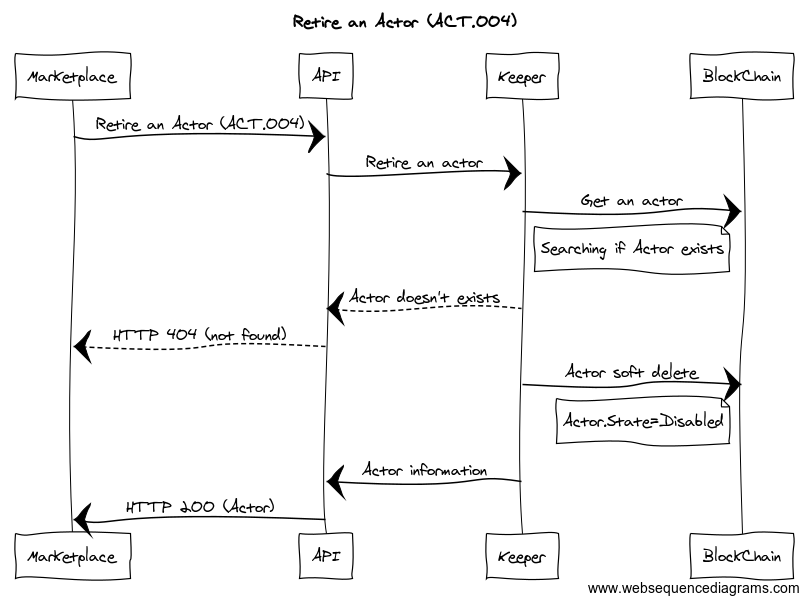
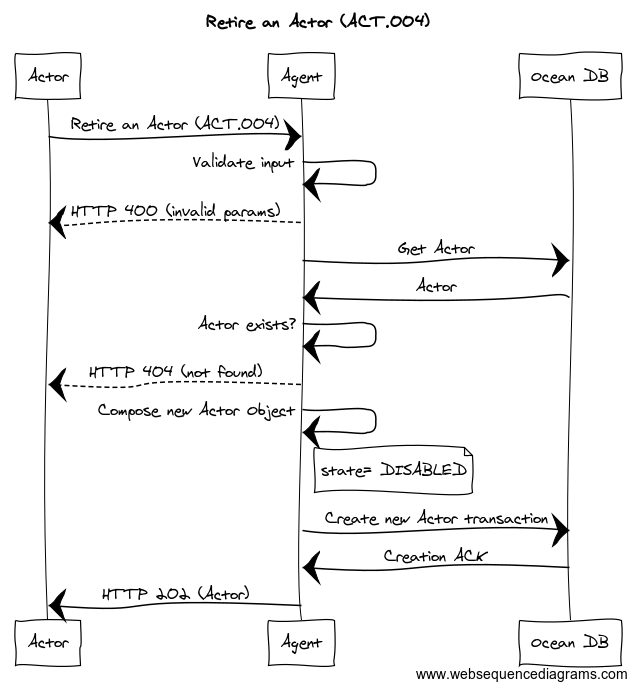
update and retire methods updated

Changed region(s): [[0.0, 0.0, 0.9858, 1.0], [0.0896, 0.4179, 0.1195, 0.4478], [0.0597, 0.3881, 0.0896, 0.4179]]

diff --git a/13/README.md b/13/README.md
@@ -7,7 +7,27 @@ editor: Aitor Argomaniz <aitor@oceanprotocol.com>
 contributors: Dimitri De Jonghe <dimi@oceanprotocol.com>
 ```
 
-# Ocean Actors Registry
+<!--ts-->
+
+Table of Contents
+=================
+
+   * [Ocean Actors Registry](#ocean-actors-registry)
+      * [Change Process](#change-process)
+      * [Language](#language)
+      * [Motivation](#motivation)
+      * [Specification](#specification)
+         * [Proposed Solution](#proposed-solution)
+         * [Registering a new Actor](#registering-a-new-actor)
+         * [Retrieve information of an existing actor](#retrieve-actor)
+         * [Updating Actor metadata](#updating-actor-metadata)
+         * [Retire an Actor](#retire-an-actor)
+      * [TODO: Events](#events)
+      * [Copyright Waiver](#copyright-waiver)
+      
+<!--te-->
+
+# Ocean Actors Registry <a name="ocean-actors-registry"></a>
 
 The Ocean Actors Registry (**REG**) is a specification for Ocean Protocol to register to all the actors interacting in the Ocean Network.
 
@@ -17,14 +37,14 @@ This specification is based on [Ocean Protocol technical whitepaper](https://git
 
 This specification is called **REG** henceforth.
 
-## Change Process
+## Change Process <a name="change-process"></a>
 This document is governed by the [2/COSS](../2/README.md) (COSS).
 
-## Language
+## Language <a name="language"></a>
 The key words "MUST", "MUST NOT", "REQUIRED", "SHALL", "SHALL NOT", "SHOULD", "SHOULD NOT", "RECOMMENDED", "NOT RECOMMENDED", "MAY", and "OPTIONAL" in this document are to be interpreted as described in [BCP 14](https://tools.ietf.org/html/bcp14) \[[RFC2119](https://tools.ietf.org/html/rfc2119)\] \[[RFC8174](https://tools.ietf.org/html/rfc8174)\] when, and only when, they appear in all capitals, as shown here.
 
 
-## Motivation
+## Motivation <a name="motivation"></a>
 
 Ocean network aims to power marketplaces for relevant AI-related data services.
 Different actors and stakeholders are necessary to interact between them using the Ocean Protocol defined.  
@@ -55,7 +75,7 @@ Verifiers provide assets and service verifications, getting tokens on reward. Ve
 Marketplaces expose all the information about the datasets, reputation, pricing, etc. They work as the  interface where the consumers can search for datasets suitable for their requirements. Marketplaces include the information provided by the curators.
 
 
-## Specification
+## Specification <a name="specification"></a>
 
 The **Actors** information should be managed using an API. This API should exposes the following capabilities:
 
@@ -69,7 +89,7 @@ The information or Metadata about the Actors MUST be stored in Ocean DB.
 AGENT MUST NOT store any information about the accounts (public keys, private keys, passwords or recovery phrases).
 
 
-### Proposed Solution
+### Proposed Solution <a name="proposed-solution"></a>
 
 The proposed solution is composed by the interaction of different elements:
 
@@ -95,7 +115,7 @@ The above diagram shows the high level interactions between the components invol
 
 In the following sections you can find the end to end implementation details of the complete REG functionality.
 
-### Registering a new Actor
+### Registering a new Actor <a name="registering-a-new-actor"></a>
 
 ![Registering a new Actor](images/ACT.001.png "ACT.001")
 
@@ -195,7 +215,7 @@ Using the information stored/provided by **Ocean DB**, the **AGENT** SHOULD comp
 |attributes |array |Array of key, value attributes|
 
 
-### Retrieve information of an existing actor
+### Retrieve information of an existing actor <a name="retrieve-actor"></a>
 
 ![Retrieve info of an Actor](images/ACT.002.png "ACT.002")
 
@@ -207,6 +227,7 @@ The retrieval of the Actor information relates with the AGENT and Ocean DB. No i
 It is necessary to expose a RESTful HTTP interface using the following details:
 
 ```
+Reference: ACT.002
 Path:  /api/v1/keeper/actors/actor/{actorId}
 HTTP Verb: GET
 Caller: Any
@@ -234,7 +255,8 @@ GET http://localhost:8080/api/v1/keeper/actors/actor/0x8f0227d45853a50eefd48dd4f
 ```json
 {
     "actorId": "0x8f0227d45853a50eefd48dd4fec25d5b3fd2295e",
-	"name": "John Doe"
+	"name": "John Doe",
+	"state": "CREATED",
 	"attributes": [{
 		"key": "interests",
 		"value": "Looking Ahead"
@@ -257,80 +279,152 @@ Ocean DB stores all the information about the Actors metadata. Using the actorId
 If the Actor metadata has the state attribute `state == DISABLED` the method should return a **HTTP 404** Not Found message.
 
 
----
+### Updating Actor metadata <a name="updating-actor-metadata"></a>
 
-**Still pending to Review**
+![Update an Actor](images/ACT.003.png "ACT.003")
 
----
----
----
----
----
----
----
----
+In the above diagram the Agent and the Account Manager capabilities are implemented in the AGENT scope.
+No information is going through the Decentralized VM.
+The updating of an existing Actor metadata involves the following implementations:
 
-
-
-### Update an Actor (ACT.003)
-
-```
-Path: /api/v1/keeper/actors/actor
-HTTP Verb: PUT
-Caller: Actor or Marketplace working as Proxy
-Input: Actor Schema
-Output: Actor Schema
-HTTP Output Status Codes: 
-    HTTP 200 - Updated
-    HTTP 404 - Not Found
-```
-
-![ACT.003](images/ACT.003.png "ACT.003")
-
-Method updating the Actor information. This method doesn’t allow to modify all the Actor information attributes. Information like public & private keys, wallet and so on can’t be modified. Only the information about the following fields can be updated:
+This method doesn’t allow to modify all the Actor information attributes. Only the information about the following fields can be updated:
 
 * Name
 * Attributes
 
-This method is integrated by the **Actor**. Marketplaces can participate as proxies. 
-The Input and Output parameters are defined in the [Actor Schema](https://github.com/oceanprotocol/pk-schemas/blob/develop/src/main/resources/avro/com/oceanprotocol/core/keeper/schemas/Actor.avsc).
 
+#### Ocean Agent API
 
-### Retire an Actor (ACT.004)
+It is necessary to expose a RESTful HTTP interface using the following details:
 
 ```
+Reference: ACT.003
+Path: /api/v1/keeper/actors/actor
+HTTP Verb: PUT
+Caller: Actor
+Input: Actor Schema
+Output: Actor Schema
+HTTP Output Status Codes: 
+    HTTP 202 - Accepted
+    HTTP 400 - Invalid params
+    HTTP 404 - Not Found
+```
+
+##### Input Parameters
+
+| Parameter | Type | Description |
+|:----------|:-----|:------------|
+|actorId    |string|Account address|
+|name       |string|Actor nickname (optional)|
+|attributes |array |Array of key, value attributes (optional)|
+
+Example: 
+
+```json
+{
+    "actorId": "0x8f0227d45853a50eefd48dd4fec25d5b3fd2295e",
+	"name": "Alice",	
+	"attributes": [{
+		"key": "interests",
+		"value": "no interests"
+	}]
+}
+```
+
+#### Accounts Management
+
+The Accounts Manager components it's not involved in this method. All the information will be retrieved from **Ocean DB**.
+
+#### Interaction with Ocean DB
+
+Ocean DB will store the metadata information about the actor. Only the metadata included in the following attributes will be modified:
+
+* Name
+* Attributes
+
+To implement that it's necessary to retrieve the actor from the database, and update the Name and Attributes information in the document retrieved, the new model created will be sent as a new transaction to the database. 
+After creating the Actor in the Database, it will return a HTTP 202 Accepted message. It means the request has been accepted for processing, but the processing has not been completed.
+
+
+#### Output
+Using the information stored/provided by **Ocean DB**, the **AGENT** SHOULD compose the output payload to return. It should include same information detailed in the previous sections.
+
+
+
+### Retire an Actor <a name="retire-an-actor"></a>
+
+![Retire an Actor](images/ACT.004.png "ACT.004")
+
+In the above diagram the Agent and the Account Manager capabilities are implemented in the AGENT scope.
+No information is going through the Decentralized VM.
+
+This method implements a soft delete of an Actor. It means the Actor is updated setting the state attribute to `DISABLED`. The method will return a HTTP 200 status code and the Actor modified in the response body.
+
+This method only can be integrated by the Actor. The Input of this method is the actorId referencing to a unique Actor. 
+
+#### Ocean Agent API
+
+It is necessary to expose a RESTful HTTP interface using the following details:
+
+```
+Reference: ACT.004
 Path: /api/v1/keeper/actors/actor/{actorId}
 HTTP Verb: DELETE
 Caller: Actor
 Input: actorId
 Output: Actor Schema
 HTTP Output Status Codes: 
-    HTTP 200 - OK
+    HTTP 202 - Accepted
+    HTTP 400 - Invalid params
     HTTP 404 - Not Found
 ```
 
-![ASE.004](images/ASE.004.png "ASE.004")
+##### Input Parameters
 
-This method implements a soft delete of an actor. It means the Actor is updated setting the state attribute to `“DISABLED”`. 
-The method will return a HTTP 200 status code and the Actor modified in the response body.
-
-This method only can be integrated by the Actor. 
-The Input of this method is the actorId referencing to a unique Actor. The Output parameters are defined in 
-the [Actor Schema](https://github.com/oceanprotocol/pk-schemas/blob/develop/src/main/resources/avro/com/oceanprotocol/core/keeper/schemas/Actor.avsc).
+| Parameter | Type | Description |
+|:----------|:-----|:------------|
+|actorId    |string|Account address|
 
 
-## Events
+Example: 
+
+```http
+DELETE http://localhost:8080/api/v1/keeper/actors/actor/0x8f0227d45853a50eefd48dd4fec25d5b3fd2295e
+```
+
+```json
+{
+    "actorId": "0x8f0227d45853a50eefd48dd4fec25d5b3fd2295e",
+	"name": "Alice",
+	"state": "DISABLED",
+	"attributes": [{
+		"key": "interests",
+		"value": "no interests"
+	}]
+}
+```
+
+#### Accounts Management
+
+The Accounts Manager components it's not involved in this method. All the information will be retrieved and updated in **Ocean DB**.
+
+#### Interaction with Ocean DB
+
+Ocean DB will store the metadata information about the actor. This method only will update the information about the **state** attribute.
+
+To implement that it's necessary to retrieve the actor from the database, and update state information in the document retrieved, the new model created will be sent as a new transaction to the database. 
+After creating the Actor in the Database, it will return a HTTP 202 Accepted message. It means the request has been accepted for processing, but the processing has not been completed.
+
+
+#### Output
+Using the information stored/provided by **Ocean DB**, the **AGENT** SHOULD compose the output payload to return. It should include same information detailed in the previous sections.
+
+
+
+## TODO: Events <a name="events"></a>
 
 The AGENT will subscribe to the **Ocean DB** Streams valid transaction log, checking 
 
-
-
-## Implementation
-
-It involves some implementation in two different components:
- 
-* The implementation of the API, from the **Ocean Agent** side, will be done using Python and the Hug framework.
-* The implementation of the **Keeper** side, will be done using the Decentralized VM and the **Ocean DB** to persist the Actor information
 
 ### Assignee(s)
 Primary assignee(s): @diminator, @ssallam, @shark8me
@@ -338,7 +432,6 @@ Primary assignee(s): @diminator, @ssallam, @shark8me
 
 ### Targeted Release
 
-The implementation of the API interface is planned for the [Alpha release](https://github.com/oceanprotocol/ProtoKeeper/milestone/2). 
 The implementation of the full Keeper functionality it's planned for the [Alpha release](https://github.com/oceanprotocol/ocean/milestone/4)
 
 
@@ -346,6 +439,6 @@ The implementation of the full Keeper functionality it's planned for the [Alpha 
 unstable
 
 
-## Copyright Waiver
+## Copyright Waiver  <a name="copyright-waiver"></a>
 To the extent possible under law, the person who associated CC0 with this work has waived all copyright and related or neighboring rights to this work.
 
